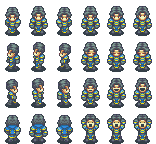
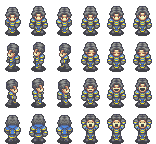
png fix

diff --git a/apps/world-warriors-arena/src/app/game-assets/character.ts b/apps/world-warriors-arena/src/app/game-assets/character.ts
@@ -8,7 +8,7 @@ export class Character extends Asset {
     public image = new Image()
   ) {
     super();
-    const rndInt = Math.floor(Math.random() * 2) + 1
+    const rndInt = Math.floor(Math.random() * 5) + 1
 
     image.src = `../../../assets/images/character_00${rndInt}.png`
     image.onload = function () {

diff --git a/apps/world-warriors-arena/src/app/models/assets.model.ts b/apps/world-warriors-arena/src/app/models/assets.model.ts
@@ -20,6 +20,6 @@ export abstract class Asset extends GameComponents {
 
 export class motionAsset extends Asset {
 
-  
+
 
 }
